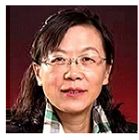
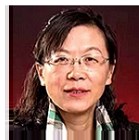
图像大小

diff --git a/css/nasac_fmac.css b/css/nasac_fmac.css
@@ -628,7 +628,7 @@ top:0
 }
 
 .photo5{
-	background-image:url(../images/photo/5.jpg)
+	background-image:url(../images/photo/55.png)
 }
 
 .photo6{
